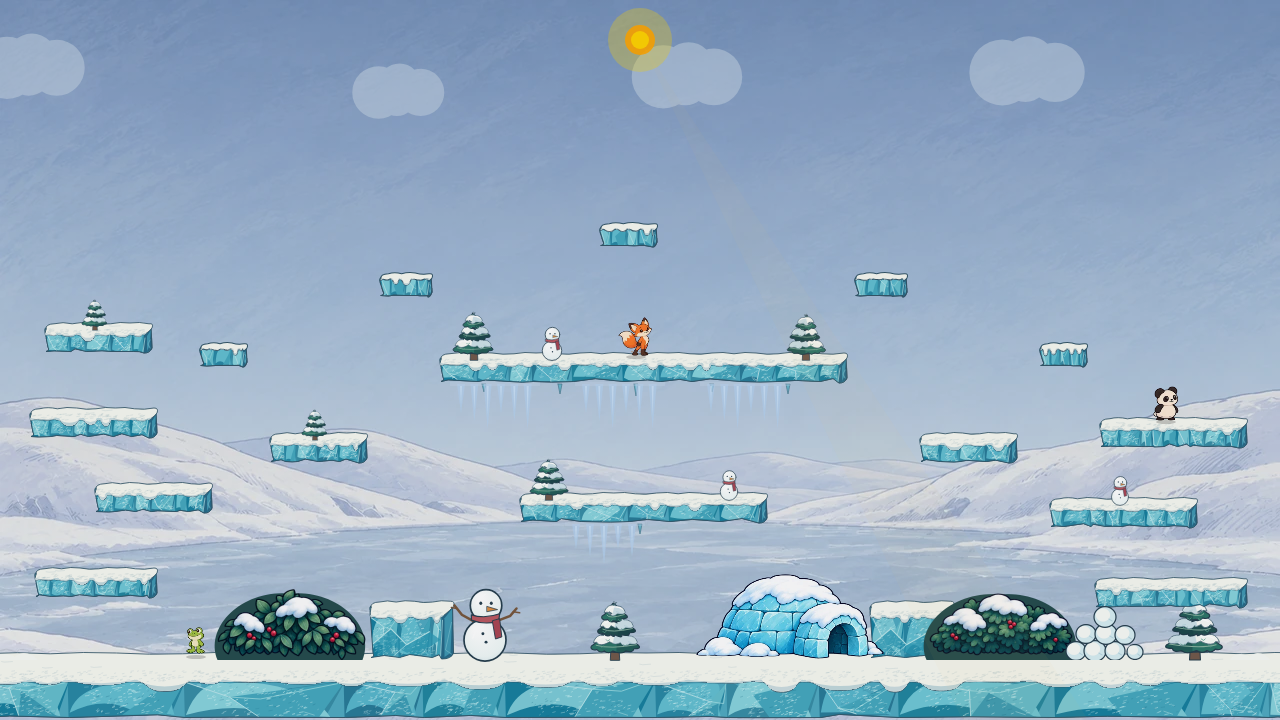
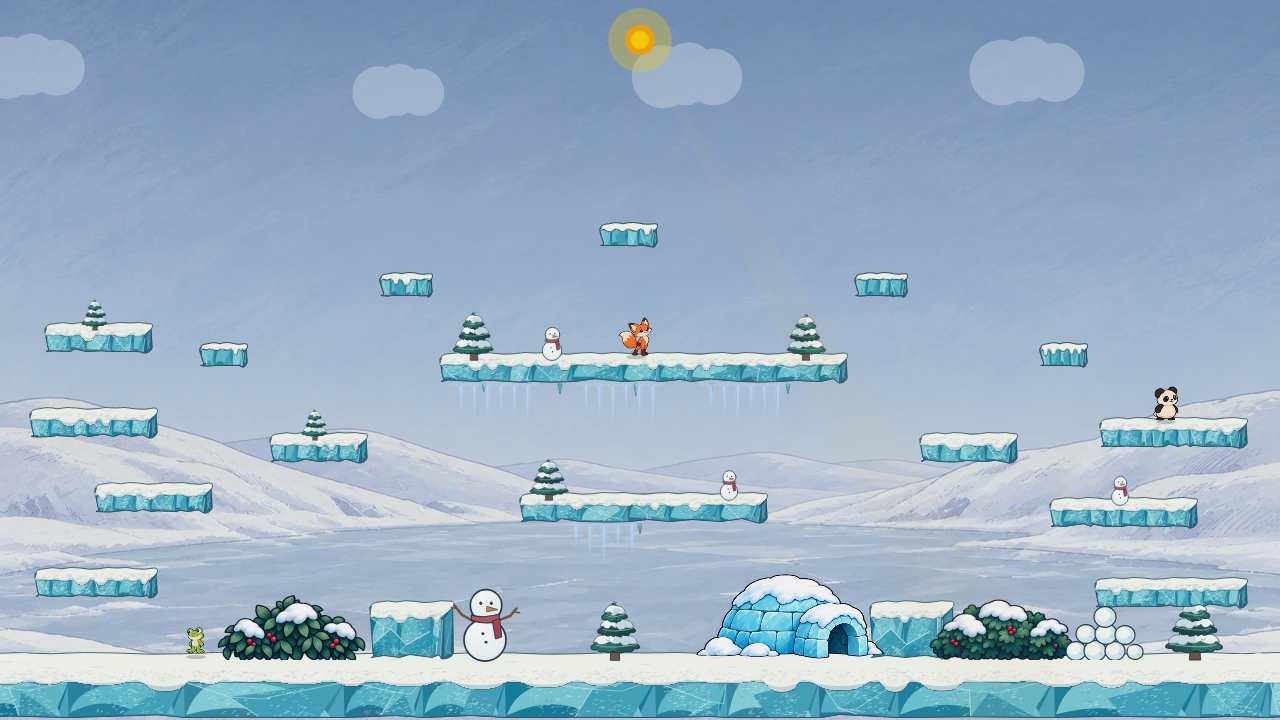
Remove visible backing beneath winter bushes

Changed region(s): [[0.7188, 0.825, 0.8438, 0.9167], [0.1562, 0.825, 0.3125, 0.9167]]

diff --git a/src/engine/arenas/packs/winterLakeRoundGroveProps.ts b/src/engine/arenas/packs/winterLakeRoundGroveProps.ts
@@ -129,13 +129,11 @@ function bush(ctx: Ctx2D, x: number, baseY: number, size: number, style: 0 | 1):
   if (image) {
     const width = style === 0 ? 151 : 153;
     const height = style === 0 ? 73 : 72;
-    // A connected opaque interior preserves the deliberate hiding cover.
-    ctx.beginPath();
-    ctx.moveTo(x-width*.48,baseY);
-    ctx.bezierCurveTo(x-width*.57,baseY-height*.45,x-width*.32,baseY-height*.97,x,baseY-height*.91);
-    ctx.bezierCurveTo(x+width*.32,baseY-height*.97,x+width*.57,baseY-height*.45,x+width*.48,baseY);
-    ctx.closePath(); ctx.fillStyle='#244c4d'; ctx.fill();
-    ctx.drawImage(image,x-width/2,baseY-height,width,height);
+    // The painted foliage is dense enough to provide cover without a backing
+    // shape that could protrude beyond its transparent silhouette.
+    // The source painting includes a little transparent padding at its base.
+    // Set the visible leaves on the ground so feet cannot peek below cover.
+    ctx.drawImage(image,x-width/2,baseY-height+6,width,height);
     return;
   }
   // Meadow's connected silhouette is already proven at gameplay scale.

diff --git a/.claude/skills/visual-style/SKILL.md b/.claude/skills/visual-style/SKILL.md
@@ -32,7 +32,7 @@ For a new arena, choose a setting-specific palette and landmarks, then apply the
 
 The [Winter Lake bush and igloo study](../../../docs/mockups/winter-props/README.md) exposed a useful limit: copying Meadow bush geometry into snow and adding small caps kept cover behavior but looked like a recolored Meadow prop. Repeated Canvas igloo seams improved recognition but stayed flat beside the textured ice platforms. Revisit the full-size painted reference, generate isolated transparent shapes with the required structure, and composite them at their real game positions before spending more time refining Canvas paths. For winter bushes, ask for a connected botanical mass, distinct leaf and hedge structures, restrained berries, and snow that rests unevenly on foliage. For an igloo, ask for staggered ice blocks, a substantial snow roof, and a dark offset entry. Judge both at native scene scale and at night, where texture and hue can collapse.
 
-Use a compact bitmap when a prop stays at a fixed size and position and its painterly surface carries the design. Keep the source study, record the crop and encoding step, and preload the runtime art in each canvas-owning worker. Render foreground cover over characters and fill any transparent interior with an opaque mass so the new asset does not change the hiding mechanic. Keep a Canvas fallback for missing optional art. Reserve vector or Canvas construction for geometry that changes size, such as platforms, or for simple shapes that survive a native-size scene check. This is a choice based on how the asset is used, not a universal preference for bitmaps.
+Use a compact bitmap when a prop stays at a fixed size and position and its painterly surface carries the design. Keep the source study, record the crop and encoding step, and preload the runtime art in each canvas-owning worker. Render foreground cover over characters and verify that the painted interior hides them at native size. Do not put a broad solid backing behind a transparent bush: in Winter Lake it protruded as a green patch. If the painting has actual holes, repair or mask only those holes inside the leaf silhouette and recapture the cover test. Align the visible leaves, not the image's transparent padding, with the ground. Keep a Canvas fallback for missing optional art. Reserve vector or Canvas construction for geometry that changes size, such as platforms, or for simple shapes that survive a native-size scene check. This is a choice based on how the asset is used, not a universal preference for bitmaps.
 
 ### Pickups must read as objects in motion
 

diff --git a/docs/mockups/winter-props/README.md b/docs/mockups/winter-props/README.md
@@ -62,7 +62,7 @@ In the live game, the Canvas bushes still looked like Meadow foliage with snow s
 
 The images above are captures of the **production renderer** with the replacement assets loaded, at 1280 × 720. The original transparent [bush study](snow-bush-paint-study.png) and [igloo study](igloo-paint-study.png) are retained. [`prepare-runtime-art.mjs`](prepare-runtime-art.mjs) crops, downsizes, and WebP-encodes those sources to two 420 × 195 bush files and one 480 × 226 igloo file (about 86 KB combined). This is technical asset preparation; the painting itself is unaltered. [`capture-paint.mjs`](capture-paint.mjs) reproduces the scene captures.
 
-The foreground bushes still render **over** players, with a connected opaque backing under each transparent painting so small gaps cannot reveal a hidden character. The selected igloo stays in the cleaned open ground interval. The menu and lobby prefetch the three files with Pearl; each render worker decodes its own copy before drawing Winter Lake. If an image fails, the previous Canvas bush or igloo draws instead. Production build, focused preload tests, Chromium smoke, and Winter Lake browser tests in both worker modes pass. A local screenshot confirms composition and occlusion in the fixture; moving gameplay should still be reviewed by eye before merging.
+The foreground bushes still render **over** players. A first pass put an oversized green backing shape beneath each painting; that protruded beyond the leaf silhouette and looked like a separate patch. The paintings have dense, connected interior foliage, so the backing was removed and the visible leaves were aligned to the ground. The cover capture shows the characters hidden without the green patch. The selected igloo stays in the cleaned open ground interval. The menu and lobby prefetch the three files with Pearl; each render worker decodes its own copy before drawing Winter Lake. If an image fails, the previous Canvas bush or igloo draws instead. Production build, focused preload tests, Chromium smoke, and Winter Lake browser tests in both worker modes pass. Moving gameplay should still be reviewed by eye before merging.
 
 Reproduce the implementation and igloo comparison captures with `node docs/mockups/winter-props/capture-round.mjs` while the worktree Vite server is running.
 
